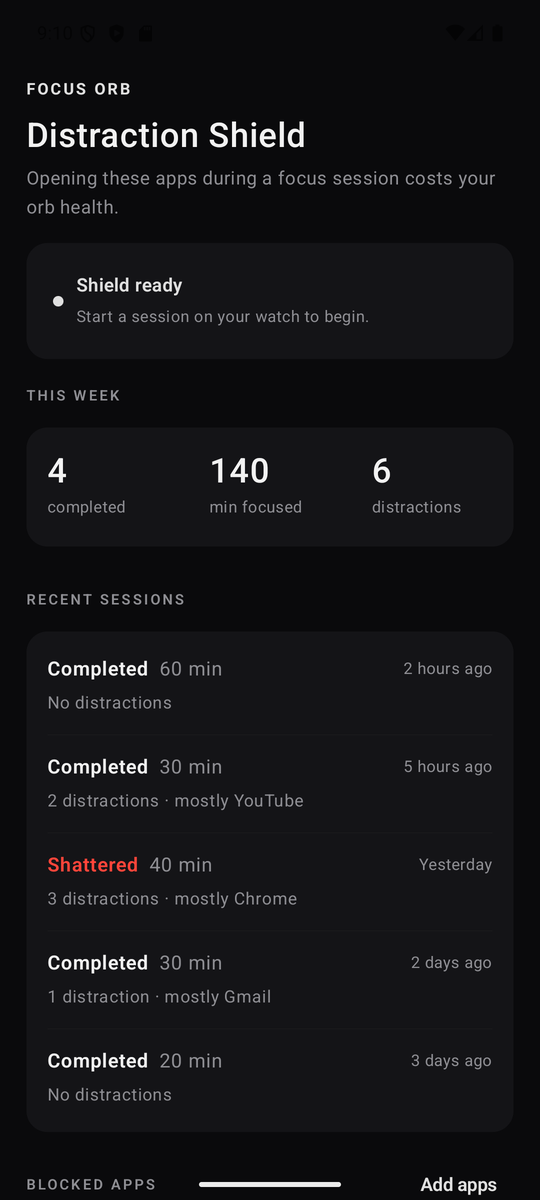
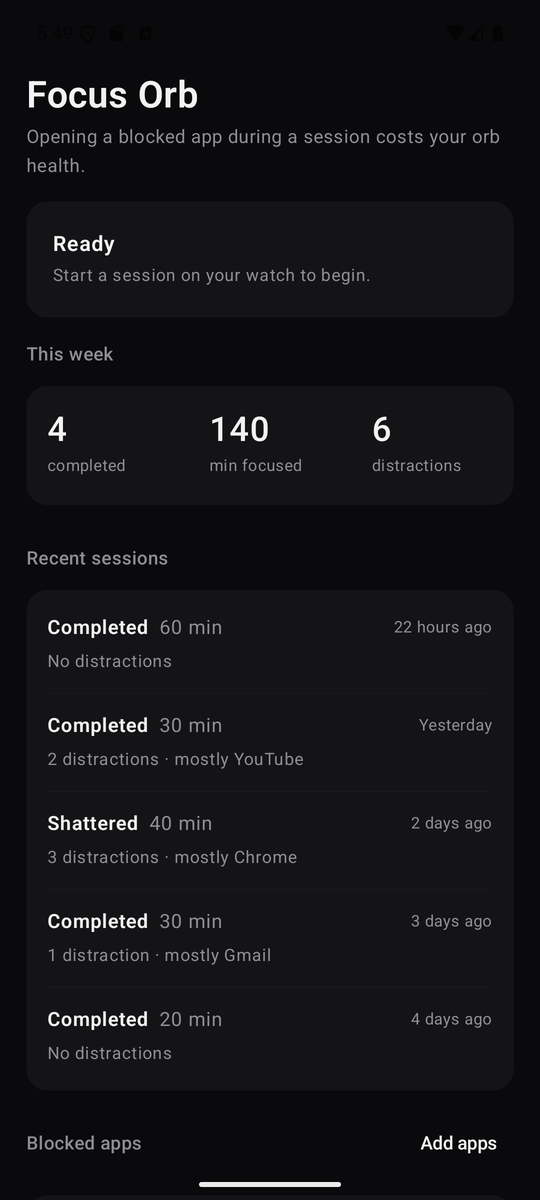
Cut the README down to a one-minute read
Down from about 230 lines to about 55. It keeps the pitch, the screenshots,
how it works in three bullets, and the reason for using Usage Access instead
of an Accessibility Service. It drops the diagram, project tree, permission
and tech tables, and the long setup guide.

The phone screenshots and the hero banner are retaken with the new
monochrome UI.

diff --git a/README.md b/README.md
@@ -2,234 +2,50 @@
   <img src="https://img.shields.io/badge/Platform-Wear%20OS%20%2B%20Android-4285F4?style=for-the-badge&logo=wear-os&logoColor=white" alt="Platform" />
   <img src="https://img.shields.io/badge/Language-Kotlin-7F52FF?style=for-the-badge&logo=kotlin&logoColor=white" alt="Kotlin" />
   <img src="https://img.shields.io/badge/UI-Jetpack%20Compose-3DDC84?style=for-the-badge&logo=jetpack-compose&logoColor=white" alt="Compose" />
-  <img src="https://img.shields.io/badge/Min%20SDK-Watch%2030%20%C2%B7%20Phone%2028-brightgreen?style=for-the-badge" alt="Min SDK" />
 </p>
 
 # FocusOrb
 
-**An anti-distraction system for Wear OS + Android.**
+**A focus timer that catches you getting distracted, across two devices, in real time.**
 
-Start a focus session on your watch, and your phone becomes a referee. It detects when you open a distracting app and signals the watch, where your orb takes damage. Complete a session to earn a star for your personal galaxy.
+Start a session on your Wear OS watch. If you open a blocked app on your phone, the phone detects it and your orb on the watch takes damage. Finish the session and you earn a star for your galaxy.
 
 <p align="center">
   <img src="docs/screenshots/hero.png" alt="FocusOrb on the watch and phone" width="100%" />
 </p>
 
----
+## How it works
 
-## How It Works
-
-FocusOrb is a **dual-device** system: two apps that talk in real time over the Wearable Data Layer.
-
-### Watch — *The Focus Orb*
-A glowing, animated energy orb lives on your wrist. Start a focus session and the orb pulses with life. Stay focused, and the orb rewards you. Get distracted, and it fights back.
-
-### Phone — *The Distraction Shield*
-While a session is active, the phone runs a foreground service that checks which app is in front, once a second. Open an app on your blocklist and the phone signals the watch within about a second. It doesn't stop you using the app; it makes you pay for it on your wrist.
-
-### The Penalty System
-- The orb has **3 Health Points**.
-- Each distraction triggers **screen shake**, **crystalline fracture visuals**, and **heavy haptic feedback** on the watch.
-- Stay inside a blocked app and a **Poison Tick** deals repeated damage every 5 seconds.
-- Lose all HP → the orb **shatters** and your session is lost.
+- **Watch:** a Canvas-drawn orb with 3 HP. Each distraction cracks it with a screen shake and haptics, and staying in a blocked app costs another hit every 5 s. At 0 HP it shatters.
+- **Phone:** during a session, a foreground service checks the foreground app once a second and signals the watch over the Wearable Data Layer.
+- **Reward:** completing a session triggers a supernova that adds a star to a scrollable galaxy.
 
 <p align="center">
   <img src="docs/screenshots/watch-running.png" width="30%" alt="Session running" />
-  <img src="docs/screenshots/watch-damage-1.png" width="30%" alt="First hit: the orb fractures" />
-  <img src="docs/screenshots/watch-shattered.png" width="30%" alt="Orb shattered: Focus Lost" />
+  <img src="docs/screenshots/watch-damage-1.png" width="30%" alt="The orb cracks on a distraction" />
+  <img src="docs/screenshots/watch-shattered.png" width="30%" alt="Focus lost" />
 </p>
-
-### The Reward
-Complete a session and the orb **collapses into a supernova**, birthing a collectible star. Stars are placed into an interactive, scrollable **2D hex-spiral galaxy** you build over time.
-
 <p align="center">
-  <img src="docs/screenshots/watch-supernova.png" width="30%" alt="Supernova detonation" />
-  <img src="docs/screenshots/watch-voyage.png" width="30%" alt="The new star travels to its place" />
-  <img src="docs/screenshots/watch-galaxy.png" width="30%" alt="Your galaxy" />
+  <img src="docs/screenshots/watch-supernova.png" width="30%" alt="Supernova" />
+  <img src="docs/screenshots/watch-voyage.png" width="30%" alt="The new star joins the galaxy" />
+  <img src="docs/screenshots/watch-galaxy.png" width="30%" alt="Galaxy" />
 </p>
-
-| Duration | Reward |
-|:--------:|:------:|
-| 20 min   |  Small Star |
-| 30 min   | Medium Star |
-| 40 min   |  Large Star |
-| 60 min   |  Epic Star  |
-
-### On the phone
-Set up the shield once, choose any installed app to block, and see how each session went.
-
 <p align="center">
-  <img src="docs/screenshots/phone-setup.png" width="30%" alt="Three-step setup checklist" />
-  <img src="docs/screenshots/phone-dashboard.png" width="30%" alt="Weekly summary and session history" />
-  <img src="docs/screenshots/phone-picker.png" width="30%" alt="Searchable app picker" />
+  <img src="docs/screenshots/phone-setup.png" width="30%" alt="Setup" />
+  <img src="docs/screenshots/phone-dashboard.png" width="30%" alt="History" />
+  <img src="docs/screenshots/phone-picker.png" width="30%" alt="App picker" />
 </p>
 
----
+## Why Usage Access, not an Accessibility Service
 
-## Key Features
+The first version used an Accessibility Service to detect the foreground app, and **UPI and banking apps refused to run** while it was enabled, because screen-reading services are a known fraud vector. FocusOrb now uses `UsageStatsManager`, which reports only *which* app is open, never screen content. The trade-off is polling once a second instead of instant events, plus a battery-optimisation exemption so the watch can start the service in the background on Android 12+.
 
-- **Dynamic Canvas Orb** — Breathing radial gradient animations with real-time fracture rendering on damage
-- **Ambient Mode Support** — Ongoing Activity API keeps the session alive when you lower your wrist (Wear OS 3+)
-- **Interactive Star Galaxy** — Fling-scrollable hex-grid layout with fish-eye lens magnification
-- **Supernova Animation** — Explosive reward animation on session completion, with haptics timed to the visual beats
-- **Distraction Detection without screen access** — `UsageStatsManager` reports only *which* app is in front, never what's on screen ([why this matters](#why-not-an-accessibility-service))
-- **Block any app** — Searchable picker over every launchable app, with one-tap suggestions for common time sinks
-- **Session history** — Weekly totals and a per-session log: outcome, distraction count, and the app that distracted you most
-- **Resilient sync** — Sessions carry an ID and an expiry, so pausing stops the penalties and a dead watch app can't leave the phone policing you forever
+## Built with
 
----
+Kotlin · Jetpack Compose (Wear + Material 3) · Wearable Data Layer API · UsageStatsManager · foreground services · Coroutines
 
-## Architecture
+## Try it
 
-```mermaid
-sequenceDiagram
-    participant W as Watch (FocusViewModel)
-    participant L as Phone: WatchListenerService
-    participant S as Phone: FocusShieldService
-    participant U as UsageStatsManager
+Download both APKs from the [latest release](https://github.com/Kushal-MR/FocusOrb/releases/latest): `FocusOrb-watch` for Wear OS (API 30+) and `FocusOrb-phone` for Android (API 28+). Open the phone app, then grant usage access, notifications, and unrestricted battery.
 
-    W->>L: /session_started {id, expiresAt, minutes}
-    L->>S: start foreground service
-    loop every 1 s while the session is live
-        S->>U: query usage events since last poll
-        U-->>S: package of the resumed app
-        alt app is on the blocklist
-            S->>W: /distraction_triggered
-            Note over W: orb takes damage, haptics fire
-        end
-    end
-    W->>L: /session_ended {id, outcome}
-    L->>S: stop, record the outcome in history
-```
-
-### Why not an Accessibility Service?
-
-The first version detected the foreground app with an `AccessibilityService`, the usual approach for app blockers. It worked, but it had a serious side effect: **UPI and banking apps refuse to run while a screen-reading accessibility service is enabled.** Accessibility services can read and act on anything on screen, which makes them a known fraud vector, so payment apps treat any enabled service as a threat. With FocusOrb installed, payments stopped working.
-
-Detection now uses `UsageStatsManager`. Usage events carry only a package name and an event type. There is no screen content to read, so there's nothing for a payment app to flag. The trade-offs:
-
-| | Accessibility Service | Usage Access (current) |
-|---|---|---|
-| Sees screen content | Yes | **No** |
-| Breaks UPI / banking apps | Yes | **No** |
-| Detection | Event-driven, instant | Polled every 1 s |
-| Runs | Always, system-bound | Only during a session, as a foreground service |
-| Background start on Android 12+ | Not needed | Needs a battery-optimisation exemption |
-
-The last row is the real cost. Android 12+ won't let an app start a foreground service from the background, which is exactly what happens when the watch starts a session. Exempting the app from battery optimisation is one of the documented exceptions, so the setup screen asks for it with a one-tap system dialog.
-
----
-
-## Project Structure
-
-```
-FocusOrb/
-├── app/                              # Wear OS watch app
-│   └── src/main/.../presentation/
-│       ├── MainActivity.kt           # Compose Canvas UI: orb, supernova, galaxy
-│       ├── FocusViewModel.kt         # Session timer, state, star rewards
-│       ├── SessionMessage.kt         # Wire format for session messages
-│       ├── PhoneBridgeManager.kt     # Sends session signals to the phone, in order
-│       ├── DistractionMessageReceiver.kt  # Receives distraction hits from the phone
-│       └── OngoingActivityManager.kt # Ambient Mode persistence
-│
-├── focusorb/                         # Android phone companion app
-│   └── src/main/.../
-│       ├── WatchListenerService.kt   # Receives session start/end from the watch
-│       ├── SessionSignalHandler.kt   # What the phone does on start/end
-│       ├── FocusShieldService.kt     # Foreground service: polls, penalises
-│       ├── ForegroundAppTracker.kt   # UsageStatsManager → current foreground app
-│       ├── WatchBridgeManager.kt     # Sends distraction signals to the watch
-│       ├── SessionStateStore.kt      # Active session, with expiry
-│       ├── SessionHistoryStore.kt    # Per-session log and weekly totals
-│       ├── BlocklistStore.kt         # Blocked apps
-│       ├── InstalledAppsRepository.kt # Launchable apps for the picker
-│       └── ui/                       # Dashboard, setup checklist, history, picker
-│
-└── docs/screenshots/                 # README images
-```
-
----
-
-## Tech Stack
-
-| Layer | Technology |
-|-------|------------|
-| Language | Kotlin 2.0 |
-| Watch UI | Jetpack Wear Compose + Canvas API |
-| Phone UI | Jetpack Compose Material 3 |
-| Architecture | MVVM (ViewModel + StateFlow) |
-| Communication | Google Play Services Wearable (MessageClient) |
-| Detection | UsageStatsManager, polled from a `specialUse` foreground service |
-| Background | Foreground service, WearableListenerService |
-| Concurrency | Kotlin Coroutines, Channels, Mutex |
-| Persistence | SharedPreferences (JSON via `org.json` for history) |
-| Build System | Gradle (KTS) with Version Catalog |
-
----
-
-## Getting Started
-
-### Install the APKs
-
-Download `FocusOrb-watch` and `FocusOrb-phone` from the [latest release](https://github.com/Kushal-MR/FocusOrb/releases/latest). They are debug-signed, so Android will ask you to allow installs from unknown sources.
-
-### Build from source
-
-**Prerequisites:** Android Studio (Ladybug or newer), a Wear OS device or emulator (API 30+), and an Android phone or emulator (API 28+).
-
-1. **Clone the repository**
-   ```bash
-   git clone https://github.com/Kushal-MR/FocusOrb.git
-   cd FocusOrb
-   ```
-2. **Open in Android Studio** and let Gradle sync.
-3. **Run the watch app**: select the `app` module and deploy to a Wear OS device or emulator.
-4. **Run the phone app**: select the `focusorb` module and deploy to a phone.
-5. **Pair the devices** through the Wear OS companion app.
-
-### Set up the phone
-
-Open FocusOrb on the phone and complete the three-step checklist:
-
-1. **Usage access**: lets the shield see which app is in the foreground.
-2. **Notifications**: a "Focus session active" notification shows while the shield is running.
-3. **Unrestricted battery**: lets your watch start a session while the phone app is closed.
-
-Then add apps to your blocklist and start a session from the watch.
-
----
-
-## Permissions
-
-| Permission | Device | Purpose |
-|------------|--------|---------|
-| `WAKE_LOCK` | Watch | Keep the screen on during damage and completion animations |
-| `VIBRATE` | Watch | Haptic feedback on distraction hits |
-| `POST_NOTIFICATIONS` | Watch | Ongoing Activity for Ambient Mode |
-| `PACKAGE_USAGE_STATS` | Phone | See which app is in the foreground (never screen content) |
-| `FOREGROUND_SERVICE`, `FOREGROUND_SERVICE_SPECIAL_USE` | Phone | Run the shield for the length of a session |
-| `POST_NOTIFICATIONS` | Phone | Show the "Focus session active" notification |
-| `REQUEST_IGNORE_BATTERY_OPTIMIZATIONS` | Phone | Let the watch start the shield in the background |
-
-The phone app lists other apps through a `<queries>` entry for launcher intents rather than `QUERY_ALL_PACKAGES`. It can only see apps that have a launcher icon.
-
----
-
-## Known Limitations
-
-- **Detection is polled**, so there can be up to about a second between opening a blocked app and the hit.
-- **The battery exemption is required** for sessions to start while the phone app is closed. Without it, Android refuses the background start (the app logs this rather than crashing).
-- **FocusOrb detects, it doesn't block.** You can still use a blocked app; the cost is your orb's health.
-
----
-
-## License
-
-This project is open source. Feel free to explore, learn from, and build upon it.
-
----
-
-<p align="center">
-  <b>Stay focused. Earn stars. Build your galaxy.</b> 🌌
-</p>
+To build from source, open the project in Android Studio and run the `app` module (watch) and the `focusorb` module (phone).
